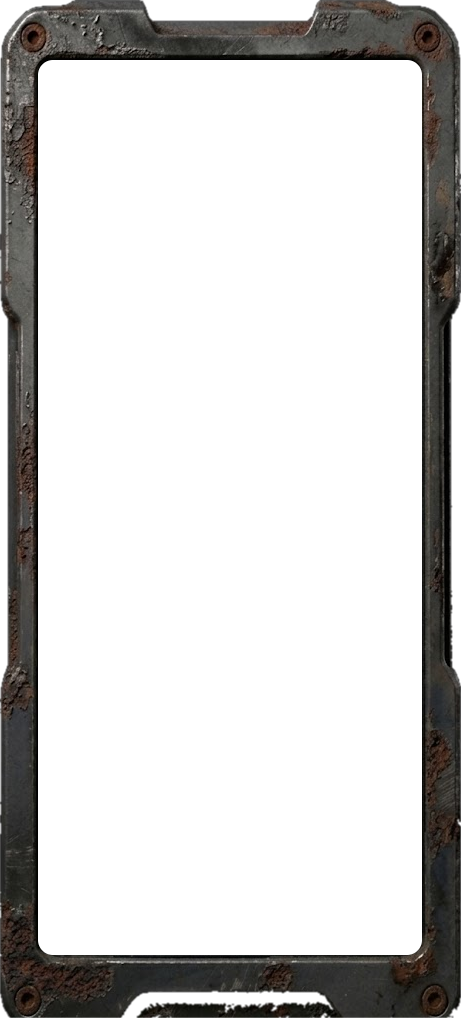
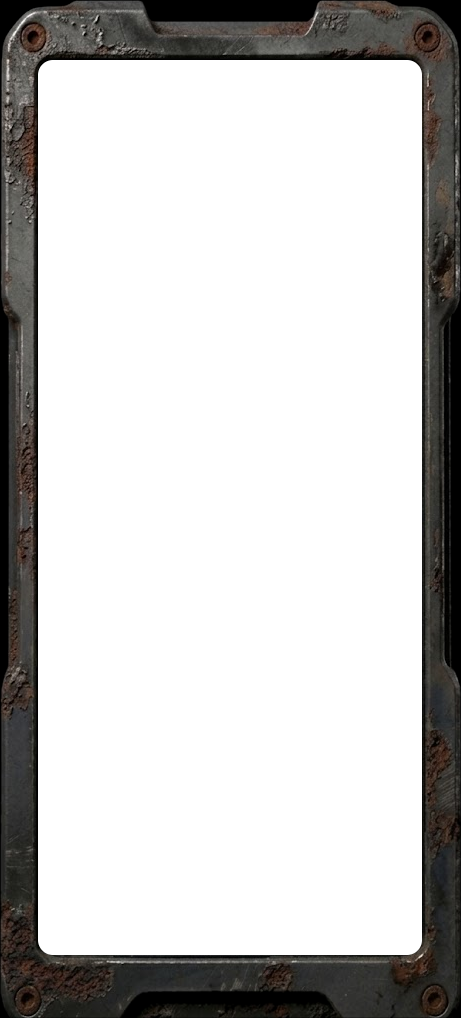
Close the holes in the case: the cube was coming out through the notch
The silhouette was cut out of the alpha, which is the obvious way to ship a
shaped asset and was wrong here for a reason that only shows up in motion.

The board is drawn by the CAMERA, across the whole display, and the case is the
only thing in front of it. So every pixel the silhouette cut away — the notch in
the middle of the top edge, the four corner chamfers, the waist, the foot — was
a hole straight through the machine. At rest nothing came through it, because
the cube is fitted at 1.28 times its own face and sits well inside the aperture.
A cube mid-fold, and a cube under a held matrix, is half again as wide as that:
the yellow cage went out through the notch, across the bezel and off the case
into the desktop behind it.

The silhouette is a matte on the colour now rather than a hole in the alpha, and
the surround ships opaque black. The camera clears to Palette.Void, which is
#000000, so those pixels are byte-for-byte what was already being drawn there —
and the metal still fades to black exactly where it used to fade to nothing,
feathered edge and all, so the case reads as the same shape it did. The glass is
the only transparent part of the asset.

Checked by compositing the twelve pieces over a full-screen cage: fifty-one
thousand pixels of it inside the glass, zero outside.

Claude-Session: https://claude.ai/code/session_016gofc2gERuisnipSqBg99v

diff --git a/unity/tools/chassis/cut.py b/unity/tools/chassis/cut.py
@@ -47,10 +47,29 @@ d = (np.sqrt(np.maximum(qx, 0) ** 2 + np.maximum(qy, 0) ** 2)
      + np.minimum(np.maximum(qx, qy), 0) - GLASS_R)
 glass = np.clip(0.5 - d, 0, 1)
 
-alpha = np.clip(case * (1 - glass), 0, 1)
+# ---- the case is a MATTE, and the surround is opaque -------------------------
+#
+# THE ONLY TRANSPARENT PART OF THIS ASSET IS THE GLASS, and that is not a
+# shortcut — it is the fix for a bug that looked like a rendering fault.
+#
+# The board is drawn by the CAMERA, across the whole display, and the case is the
+# only thing in front of it. So every pixel the case's silhouette cuts away — the
+# notch in the middle of the top edge, the four corner chamfers, the waist, the
+# foot — is a hole straight through the machine. At rest nothing shows through
+# it, because the cube is fitted well inside the aperture. Mid-fold and under a
+# held matrix the cube is half again as wide as its own face, and the cage came
+# out through the notch and ran off the top of the case into the editor's
+# background.
+#
+# The camera clears to Palette.Void, which is #000000, so painting the surround
+# black is pixel-for-pixel what was already there and closes the hole. The
+# silhouette survives as a MATTE on the colour instead of as alpha: the metal
+# fades to black exactly where it used to fade to nothing, feathered edge and
+# all, and the case still reads as a shape rather than a rectangle.
+rgb = im * case[..., None]
+alpha = np.clip(1 - glass, 0, 1)
 
 # ---- bleed the colour outward, so filtering never fetches a black neighbour --
-rgb = im.copy()
 solid = alpha > 0.02
 for _ in range(4):
     known = solid.astype(np.float64)

diff --git a/unity/tools/chassis/README.md b/unity/tools/chassis/README.md
@@ -15,12 +15,25 @@ python3 glass.py          # glass-source.jpeg -> glass-art.jpg    (the dirt)
 its screen, on a black background. Three things have to happen to it before it
 can be a housing rather than a picture of one.
 
-**The background comes off.** A flood fill from the border over everything below
-nine in luminance, which finds the black around the case and cannot leak inside
-it — the case's own darkest pixels are twice that. What is left is the
-silhouette, and it is not a rectangle: there is a notch in the middle of the top
-edge, a waist where both sides step in, a foot at the bottom, and eight bolts.
-Keeping that shape is most of why the housing reads as an object.
+**The background comes off — as a MATTE, not as alpha.** A flood fill from the
+border over everything below nine in luminance, which finds the black around the
+case and cannot leak inside it: the case's own darkest pixels are twice that.
+What is left is the silhouette, and it is not a rectangle — there is a notch in
+the middle of the top edge, a waist where both sides step in, a foot at the
+bottom, and eight bolts. Keeping that shape is most of why the housing reads as
+an object.
+
+The silhouette multiplies the colour rather than cutting the alpha, and the
+surround ships opaque black. That looks like a mistake and is the fix for one.
+The board is drawn by the CAMERA, across the whole display, and the case is the
+only thing in front of it — so every pixel the silhouette cuts away is a hole
+straight through the machine. At rest nothing shows through: the cube is fitted
+well inside the aperture. Mid-fold and under a held matrix it is half again as
+wide as its own face, and the cage came out through the notch in the top edge
+and ran off the case entirely. The camera clears to `Palette.Void`, which is
+`#000000`, so painting the surround black is pixel-for-pixel what was already
+there and closes the hole. **The glass is the only transparent part of this
+asset.**
 
 **The glass comes out.** A rounded rectangle, `GLASS` in the script, measured to
 the darkest point of the recess on each of the four sides — so the machined wall

diff --git a/unity/README.md b/unity/README.md
@@ -433,6 +433,14 @@ Two rules keep it honest, and both are load-bearing:
   reason it is twelve rather than eight is exactly this: a square piece at each
   corner would be simpler and would hang a clear quad over four corners of the
   board. There is no quad over the middle at all.
+- **And nothing is behind the case either.** The silhouette is a matte on the
+  colour, not a hole in the alpha, so the surround ships opaque black — the same
+  `#000000` the camera already clears to. The board is drawn by the camera across
+  the whole display, so every pixel the silhouette cut away used to be a hole
+  straight through the machine: mid-fold the cube is half again as wide as its
+  own face, and the matrix cage came out through the notch in the top edge and
+  ran off the case into the desktop behind it. The glass is the only transparent
+  part of the asset.
 
 **It is the one imported asset in the project, and that is a real exception to a
 real principle.** Everything else here is generated — glyphs, frames, glow, icon,
